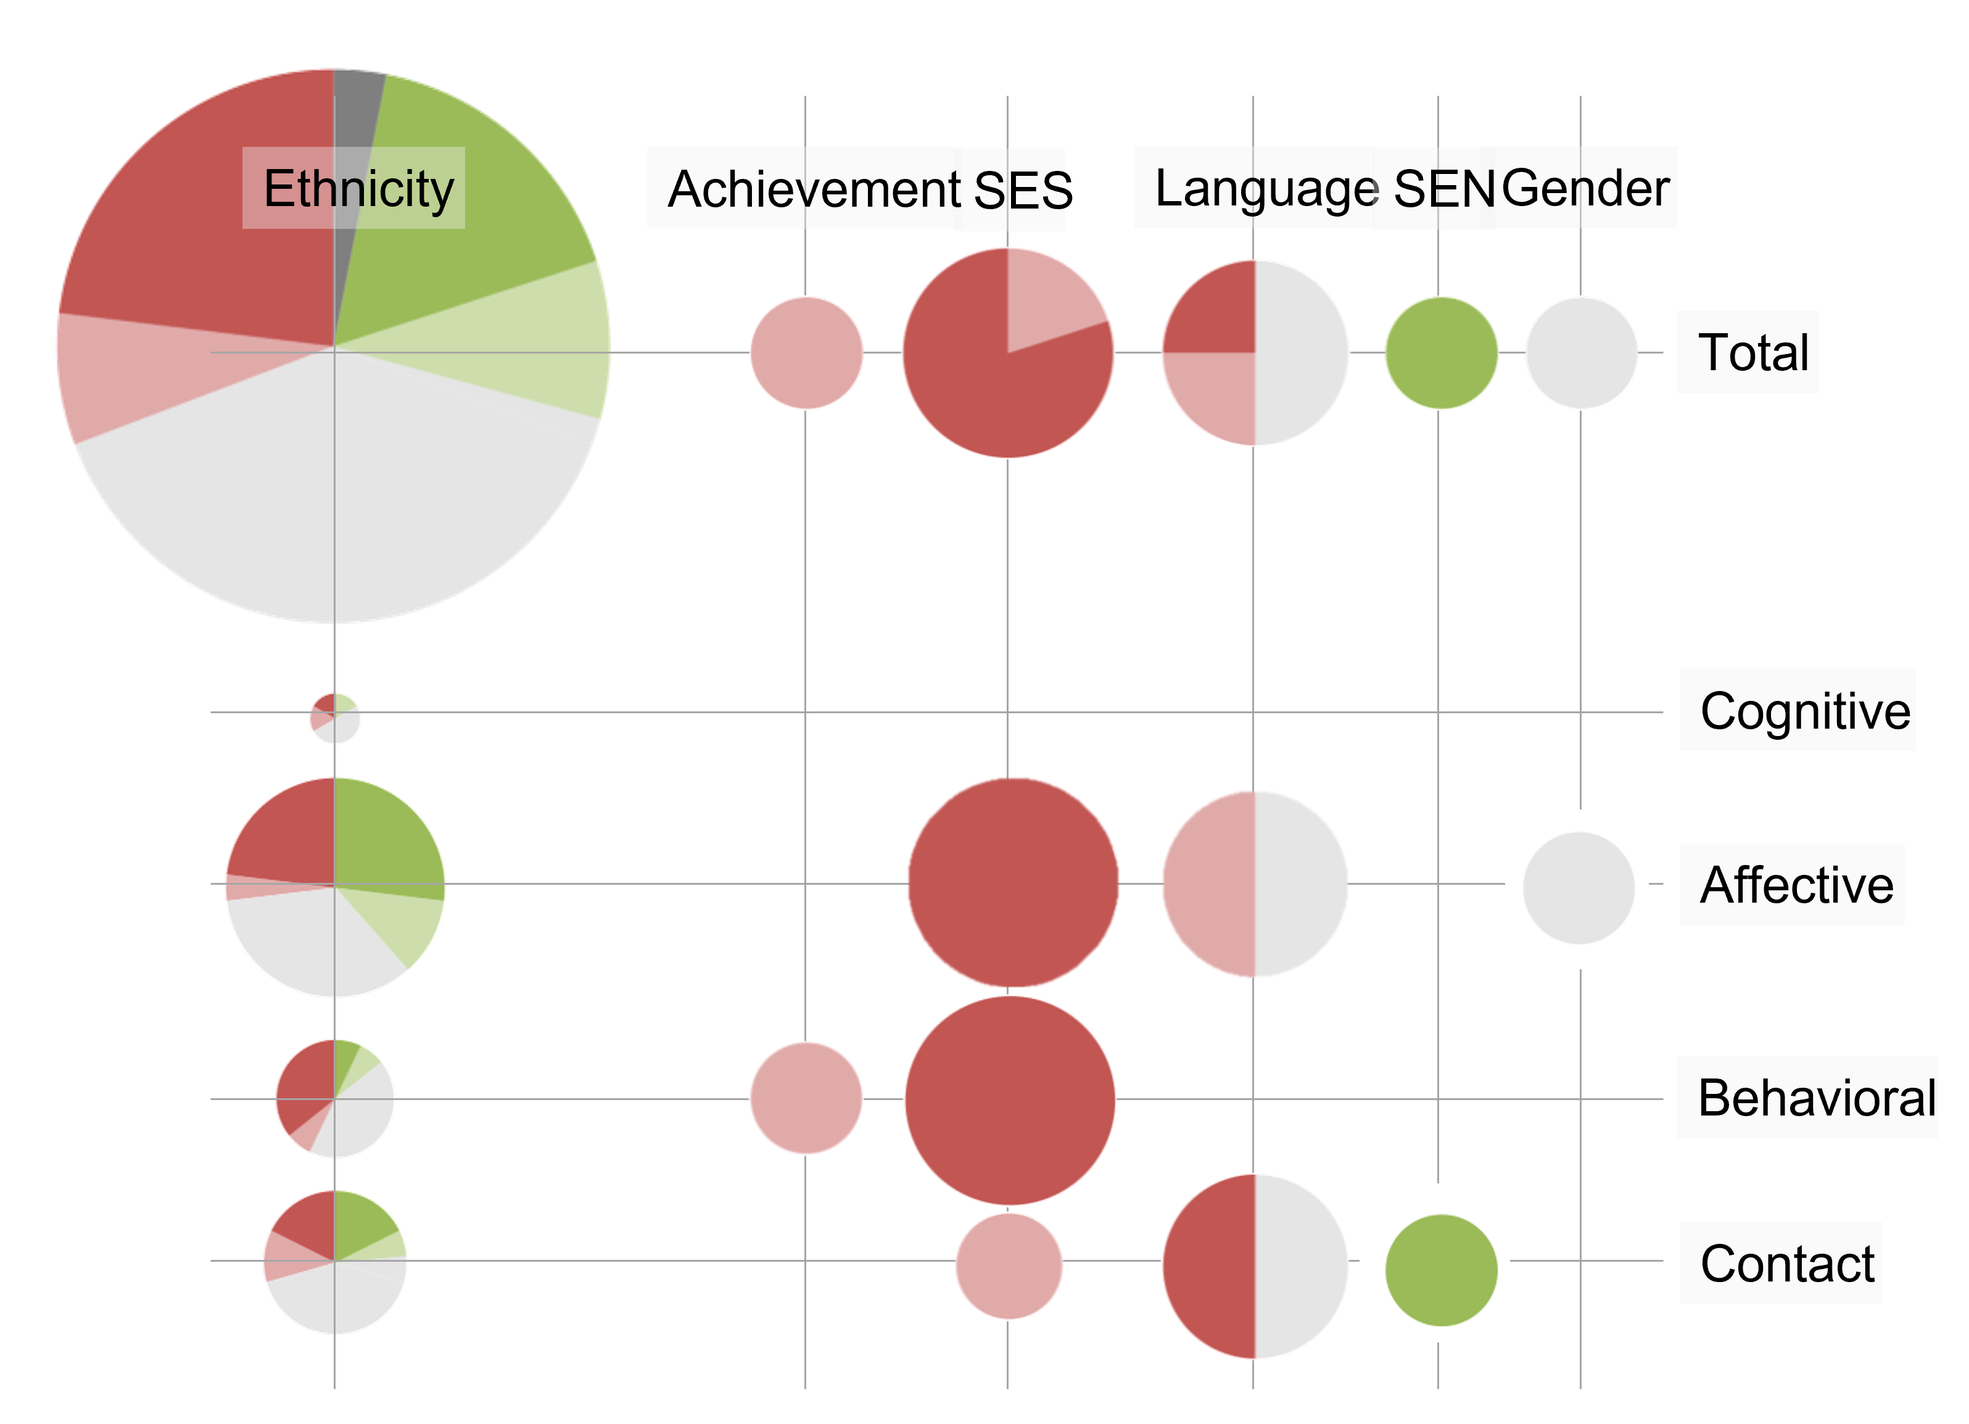
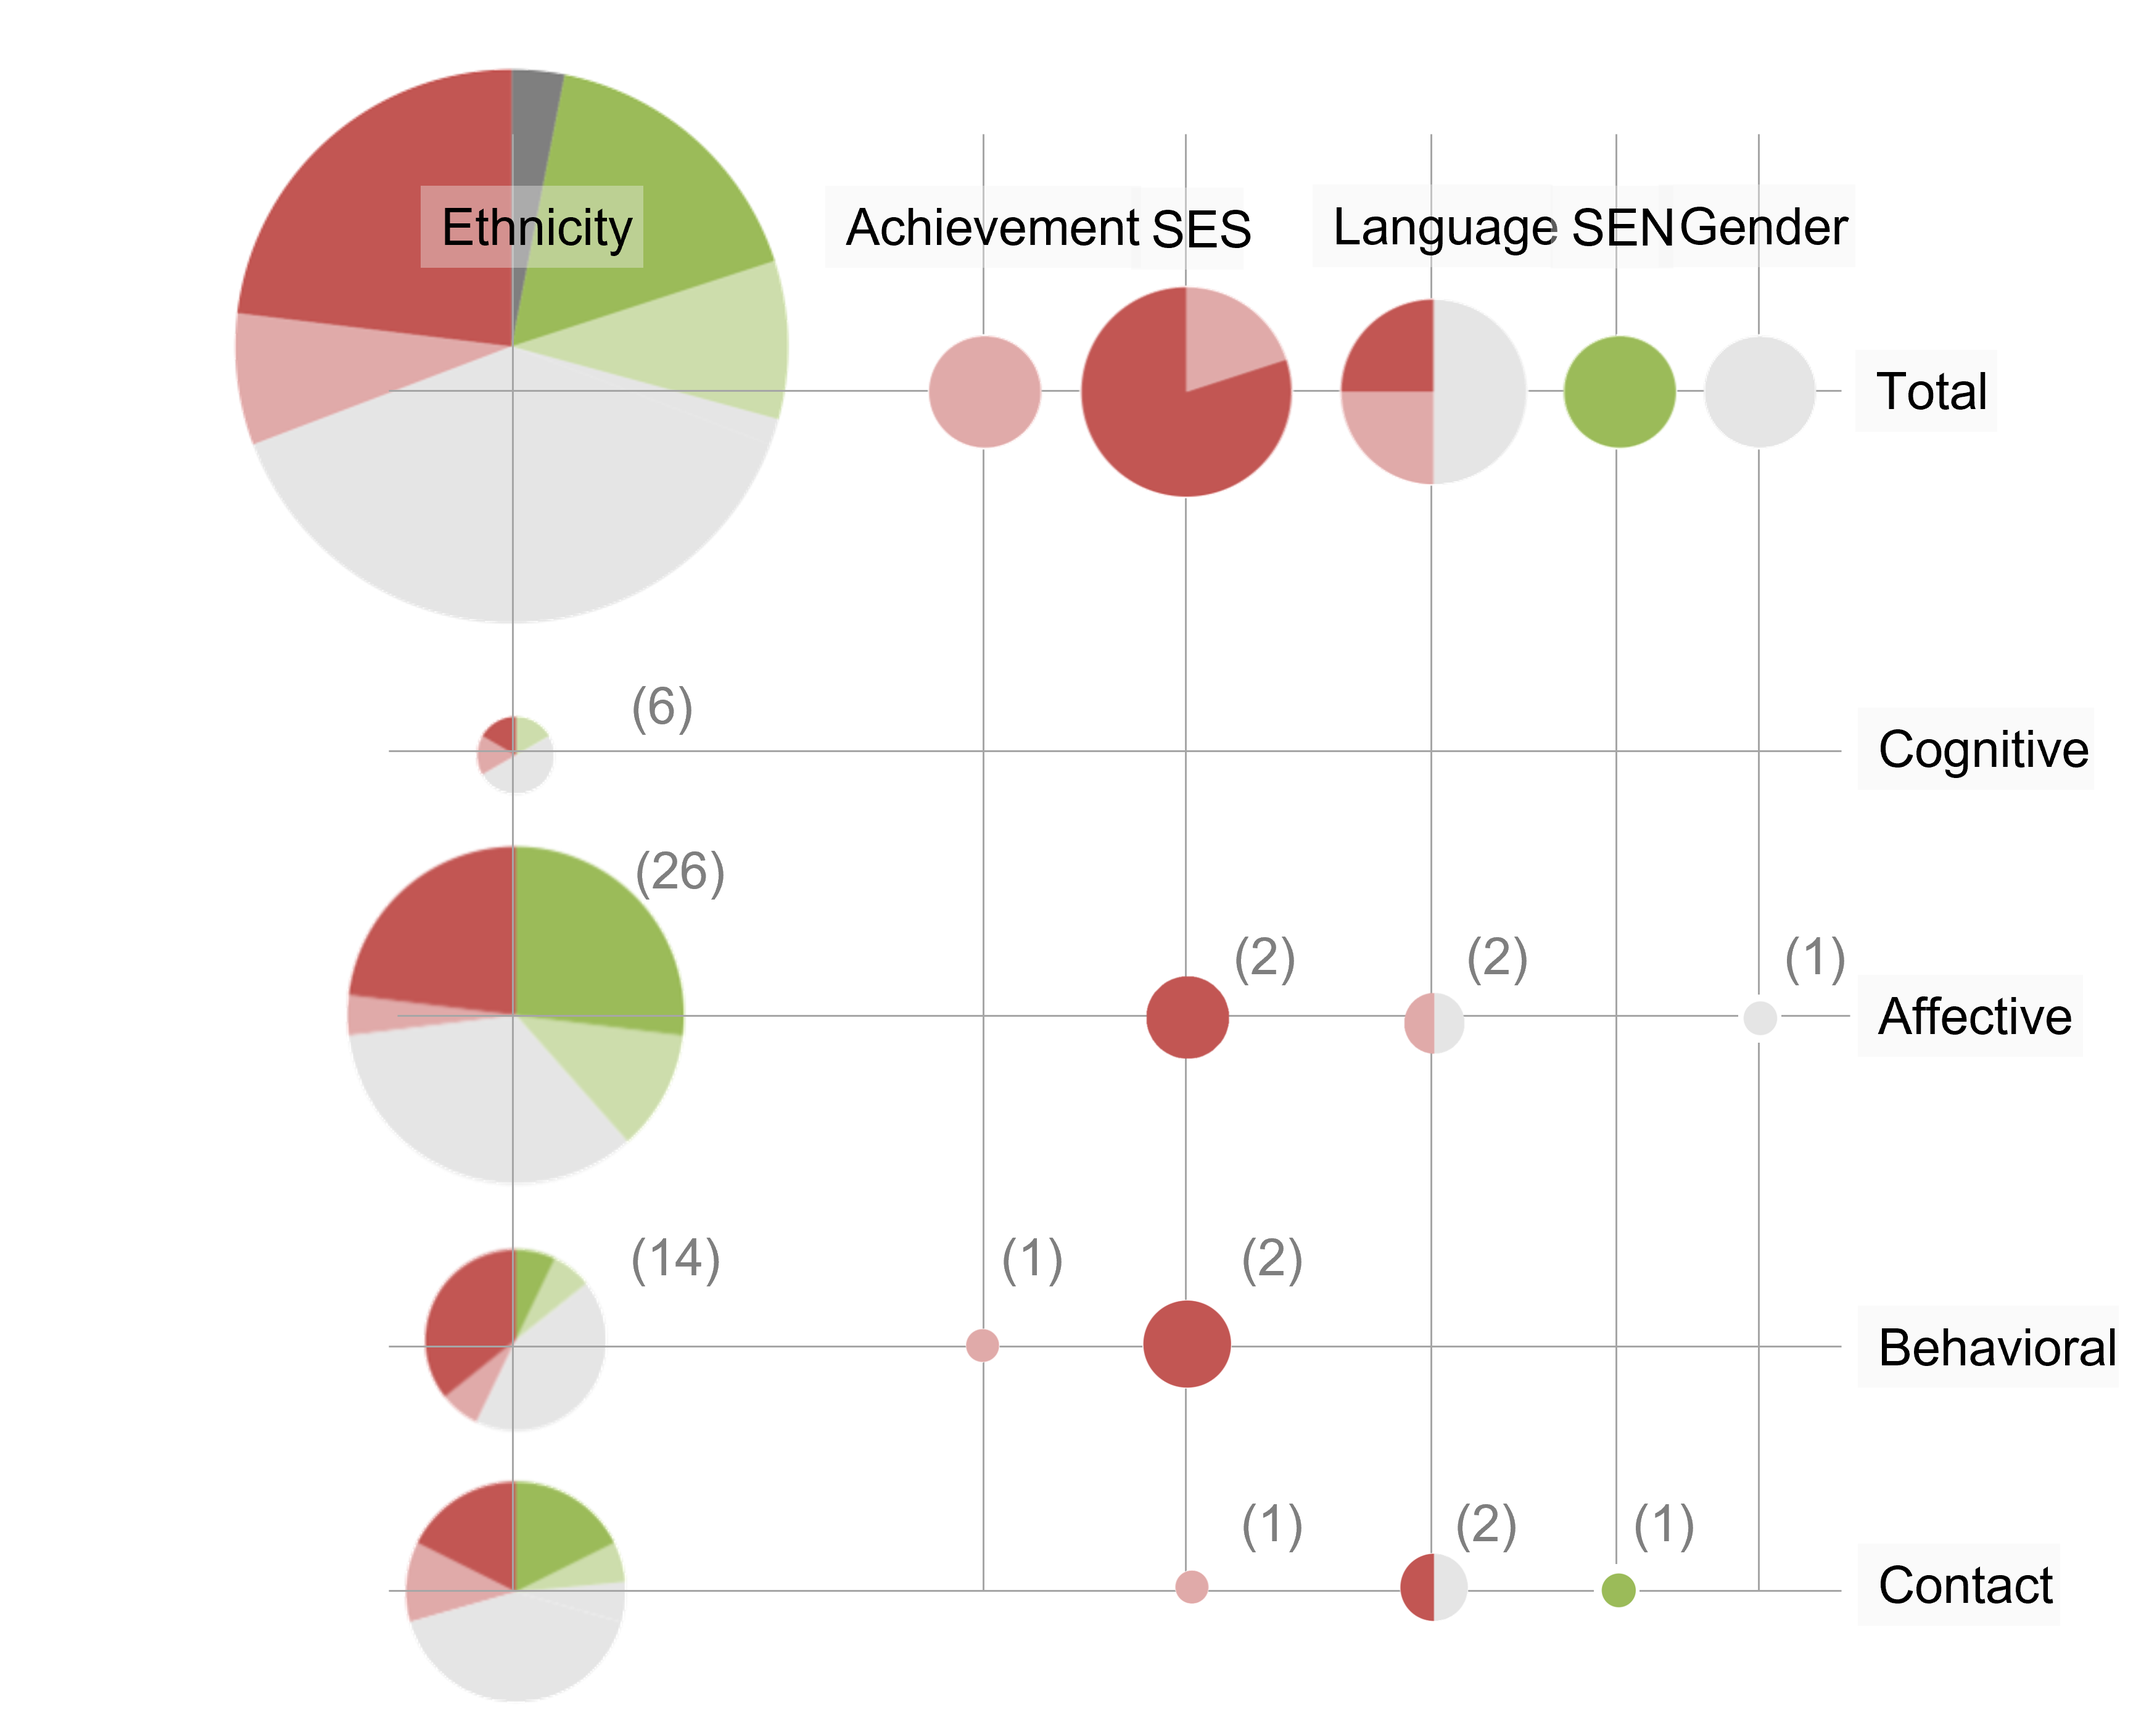
new figure

diff --git a/index.html b/index.html
@@ -56,9 +56,9 @@
 			<p> The model doesn't specifically focus on any dimension of heterogeneity. Most pathways can in principle apply to different dimensions of heterogeneity. </p>
 			<p> The different symbols within the box "Heterogeneity" are signifying that heterogeneity as a term can have different conceptual meanings and implications for measurement, which are, for example, described by Harrison and Klein (2007). In our review of theories, we identified three relevant dimensions of heterogeneity: Firstly, multiplicity, which alludes to the sheer number of different categories present in a classroom. Secondly, the distance between groups or persons: groups can be very similar and close to each other, but they can also spread across a large range. Thirdly, the theme of balance vs. imbalance between groups is a central one, especially to intergroup theories. </p>
 		<h3>Psycho-social outcomes</h3>
-			<p>The focus in our review of theories was on theories that predict psycho-social outcomes. The targeted outcomes include affective, cognitive and behavioral outcomes, including peer relations. Examples for affective outcomes are school belonging, classroom climate, subjective social integration. Cognitive outcomes include different interpersonal skills, but also stereotypes. Behavioral outcomes can be aggression, bullying and victimization, but also pro-social behavior and peer support. Also, relationships in the classroom, like number of friends and inter-group friendships, but also homophily, i.e., ingroup-orientation, are included in the review.</p>
+			<p>The focus in our review of theories was on theories that predict psycho-social outcomes. The targeted outcomes include affective, cognitive and behavioral outcomes, including peer relations. Examples for affective outcomes are school belonging, classroom climate, or subjective social integration. Cognitive outcomes include different interpersonal skills, but also stereotypes. Behavioral outcomes can be aggression, bullying and victimization, but also pro-social behavior and peer support. Also, relationships in the classroom, like number of friends and inter-group friendships, but also homophily, i.e., ingroup-orientation, are included in the review.</p>
 		<h3>Pathways</h3>
-			<p>The pathways by which classroom heterogeneity is hypothesised to cause the outcomes, are labeled according to the direction of their influence (P-positive and N-negative). Each pathway is connected to one or more theories from the research fields mentioned above. In the following, each pathway is shortly described.</p>
+			<p>The pathways by which classroom heterogeneity is hypothesised to cause the outcomes are labeled according to the direction of their influence (P-positive and N-negative). Each pathway is connected to one or more theories from the research fields mentioned above. The symbols next to the pathway signify the conceptualization of heterogeneity which is implicated by the respective theories. In the following, each pathway is shortly described.</p>
 			<p><b>N1 - Polarization.</b> Socio-constructivist theorists, like Vygotski and Piaget, emphasize that learning takes place in social interaction with others. Here, differences can have a positive impact in that they stimulate children to exchange their views and ideas and develop more advanced concepts (see below P1). However, if students' prior knowledge and experiences are too different, they might not be able to relate to each other anymore, thus leading to less mutual understanding and ultimately, a polarization in outcomes. For these theories, outcomes are typically in the cognitive realm.</p>
 			<p><b>N2 - Self-enhancement.</b> This pathway is described in Tajfel and Turner's Social Identity Theory. This theory posits that humans try to achieve a positive identity by forming groups along a salient social category and then valuing their in-group and de-valuing the outgroup(s). Which identity is salient in a certain situation can be moderated by contextual clues (M1), like teachers emphasizing a dimension of comparison in the classroom, but also by the composition of the class. Thus, low to medium levels of heterogeneity are often seen as causes for saliency of this dimension.</p>
 			<p><b>N3 - Norm deviation.</b> This pathway is described by models suggesting negative outcomes for individuals who deviate from a group norm, like the Social Misfit or Person-Group Similarity Model (Wright, 1986) and also Social Comparison Theory (Festinger, 1954, Schachter, 1952). Here, persons deviating from a group norm will have lower status in this group and might even face rejection.</p>
@@ -122,9 +122,9 @@
 <li>Studies refer to different pathways (see poster Fig. 4)</li>
 <li>Most studies do not make a definite prediction about the direction of results, but are rather exploratory (see poster Fig.4)</li>
 </ol>		
-        <h3>Additional preliminary results</h3>
+        <h3>Additional preliminary results - Evidence Map</h3>
 		<img src="evidence-map.png" class="float-image">
-		<p> Here, results of the studies are broken up by dimension of heterogeneity (ethnic, achievement, ses, language, sen and gender) and outcome domain. It is apparent that for ethnic heterogeneity, no clear picture emerges, while achievement, ses and language heterogeneity show mostly negative consequences of heterogeneity. Only one study looked at heterogeneity in special educational needs and showed a positive effect, and one study considered heterogenous composition of gender in classrooms and found no significant result. </p>
+		<p> Here, results of the studies are broken up by dimension of heterogeneity (ethnic, achievement, ses, language, sen and gender) and outcome domain. The share of studies which yielded a positive result is green, red are the studies with negative results and grey are studies with null-results. It is apparent that for ethnic heterogeneity, no clear picture emerges, while achievement, ses and language heterogeneity show mostly negative consequences of heterogeneity. Note that the number of studies varied widely, which is symbol.  Only one study looked at heterogeneity in special educational needs and showed a positive effect, and one study considered heterogenous composition of gender in classrooms and found no significant result. </p>
 		
     </section>
 

diff --git a/styles.css b/styles.css
@@ -175,7 +175,7 @@ a:hover {
 .float-image {
     float: left;
     margin: 0 20px 20px 0;  /* Adds space between the image and text */
-    max-width: 60%;         /* Ensures image doesn't take more than 40% width */
+    max-width: 40%;         /* Ensures image doesn't take more than 40% width */
     height: auto;           /* Maintain image aspect ratio */
 }
 
